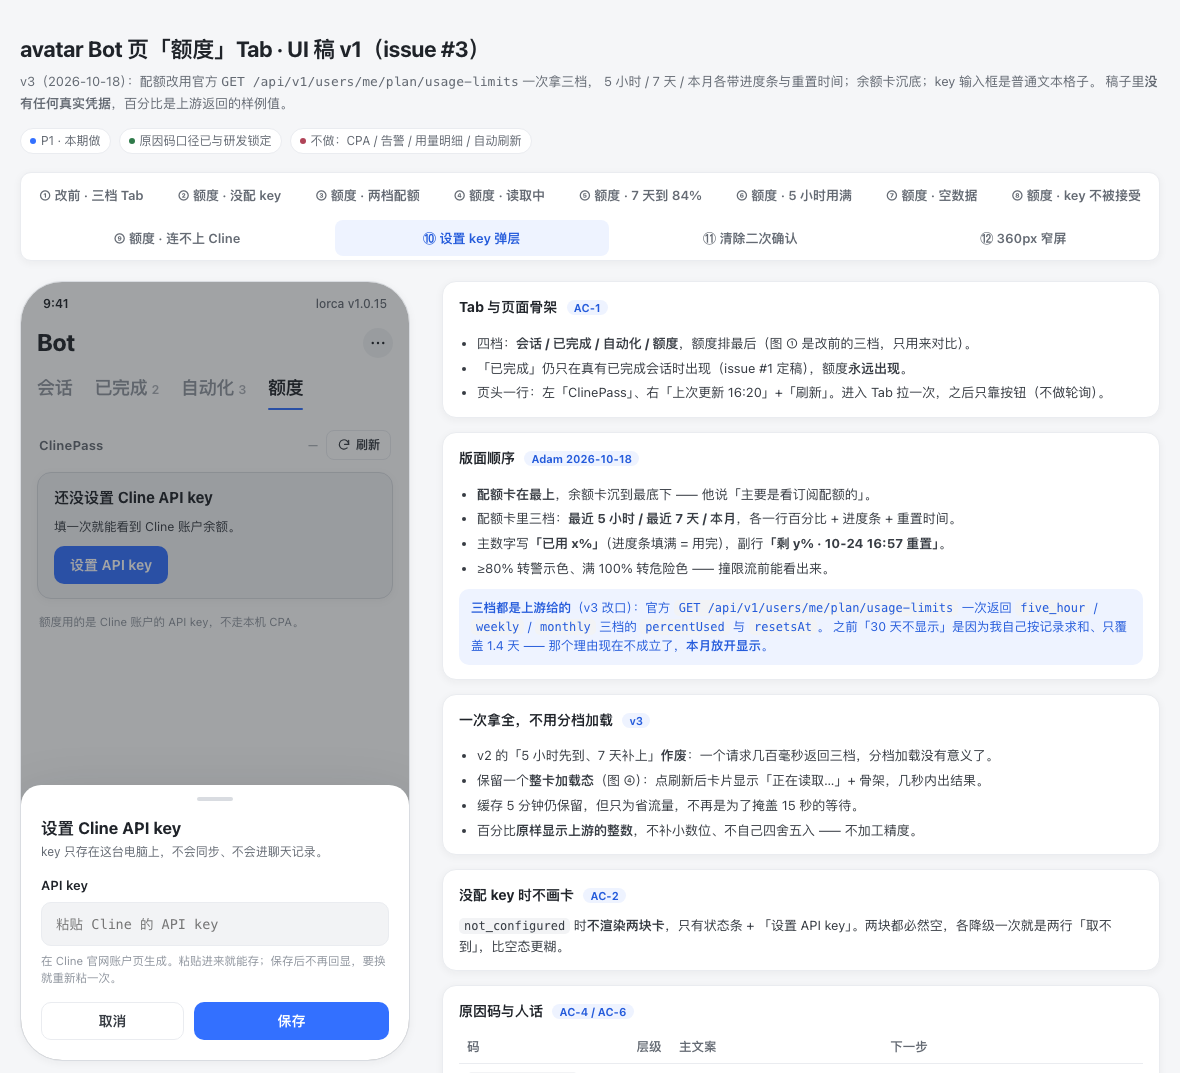
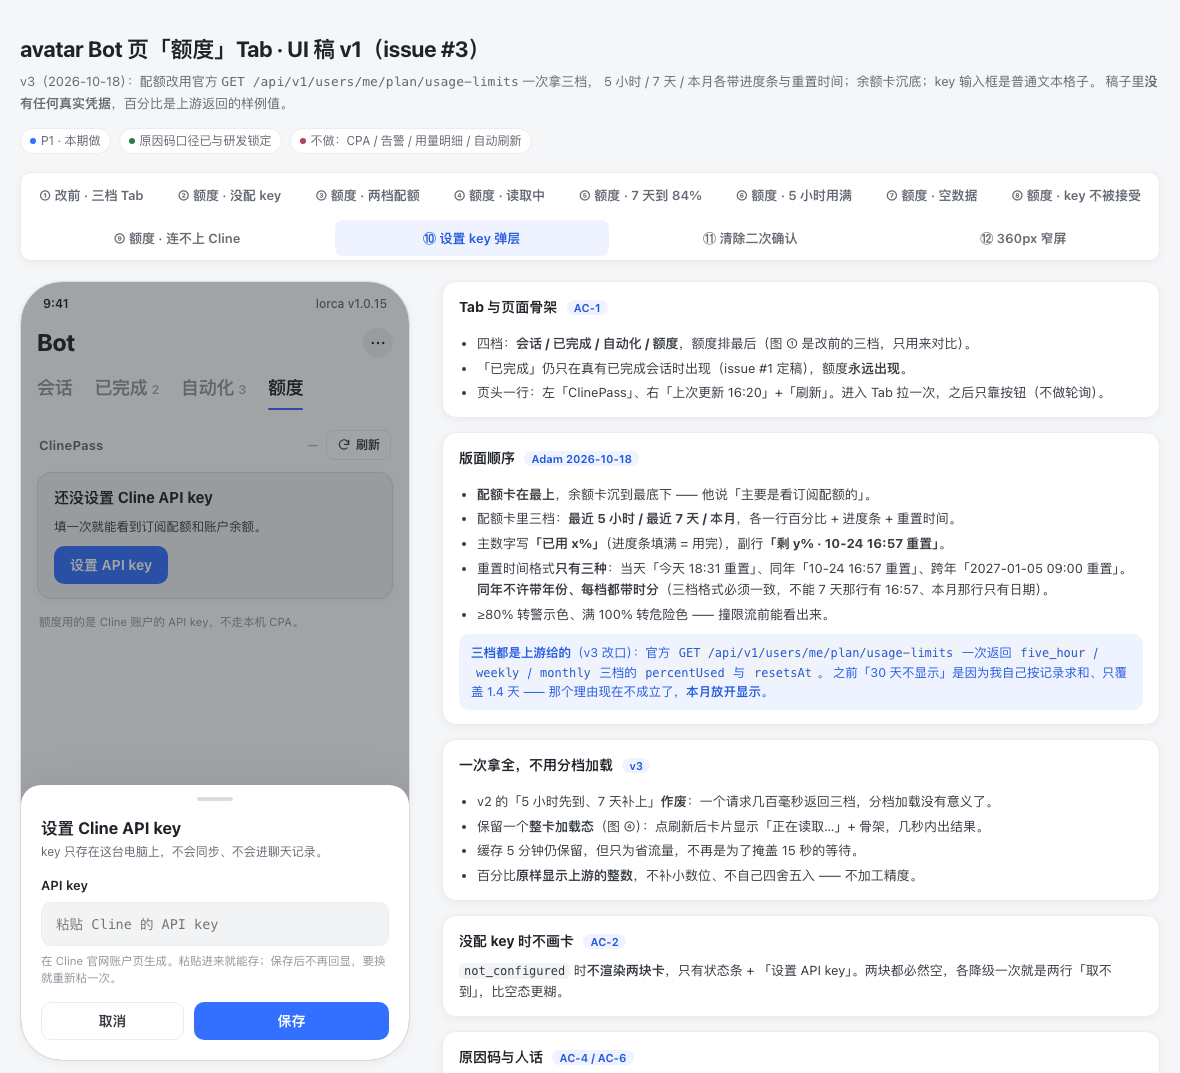
lorca-quota-tab: v3.1 —— not_configured 文案补「订阅配额」、重置时间格式钉死三种（每档都带时分、同年不带年份），探针 51/51

diff --git a/lorca-quota-tab/index.html b/lorca-quota-tab/index.html
@@ -312,6 +312,8 @@
           <li><b>配额卡在最上</b>，余额卡沉到最底下 —— 他说「主要是看订阅配额的」。</li>
           <li>配额卡里三档：<b>最近 5 小时 / 最近 7 天 / 本月</b>，各一行百分比 + 进度条 + 重置时间。</li>
           <li>主数字写<b>「已用 x%」</b>（进度条填满 = 用完），副行<b>「剩 y% · 10-24 16:57 重置」</b>。</li>
+          <li>重置时间格式<b>只有三种</b>：当天「今天 18:31 重置」、同年「10-24 16:57 重置」、跨年「2027-01-05 09:00 重置」。
+            <b>同年不许带年份、每档都带时分</b>（三档格式必须一致，不能 7 天那行有 16:57、本月那行只有日期）。</li>
           <li>≥80% 转警示色、满 100% 转危险色 —— 撞限流前能看出来。</li>
         </ul>
         <div class="note is-info">
@@ -381,7 +383,7 @@
 <script>
 /* ══ 文案表：前端只按码取，代码里不许出现第二份英文 ══ */
 const COPY = {
-  not_configured: { title: "还没设置 Cline API key", desc: "填一次就能看到 Cline 账户余额。", action: "设置 API key", tone: "idle" },
+  not_configured: { title: "还没设置 Cline API key", desc: "填一次就能看到订阅配额和账户余额。", action: "设置 API key", tone: "idle" },
   key_invalid: { title: "这个 key 不被接受", desc: "到 Cline 账户页重新复制一个，再替换掉现在这个。", action: "替换 key", tone: "bad" },
   network_unreachable: { title: "连不上 Cline，检查网络后再试", desc: "手机或电脑的网络断了，或者 Cline 那边暂时不通。", action: "重试", tone: "warn" },
   upstream_no_data: { title: "Cline 返回了空数据，暂时取不到", desc: "", action: "重试" },
